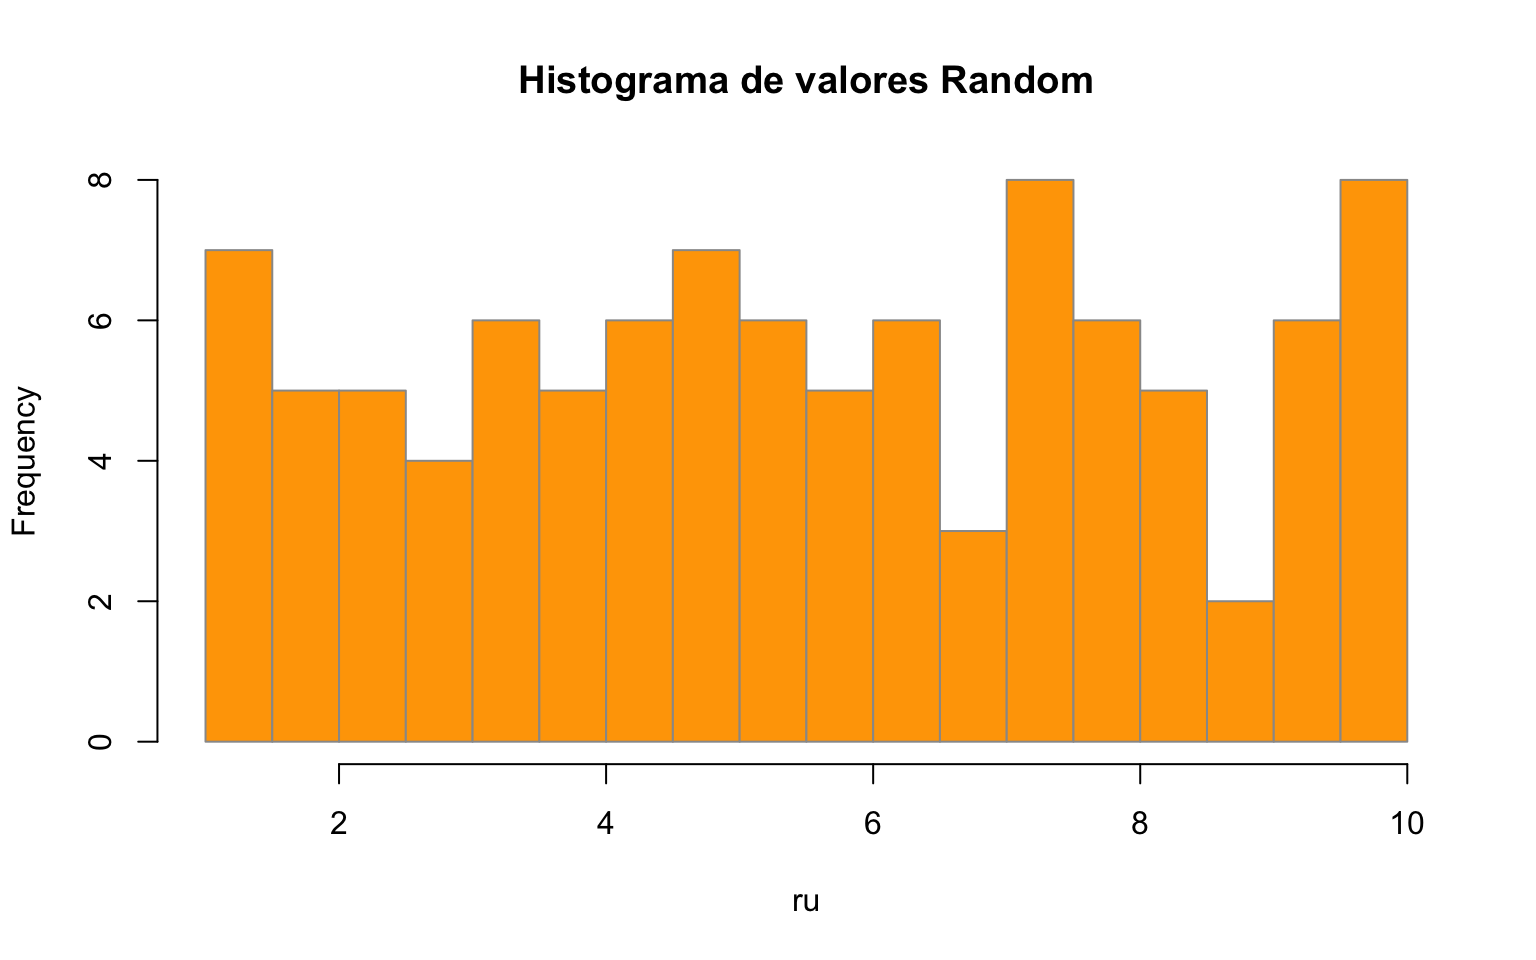
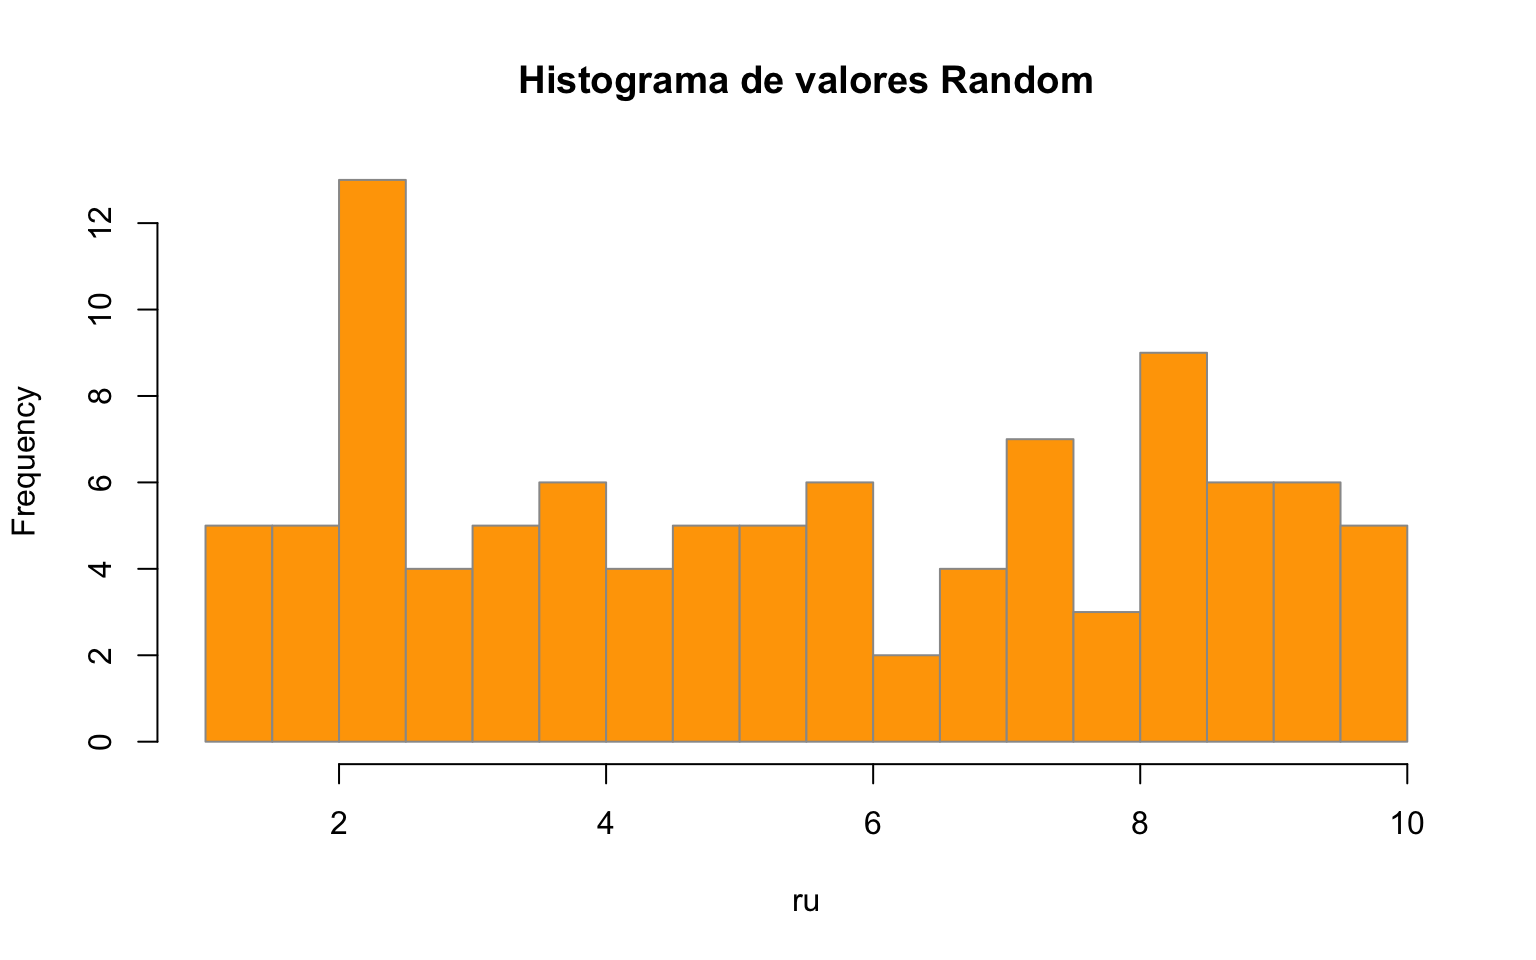
fix duplicated

diff --git a/_book/clean.html b/_book/clean.html
@@ -234,13 +234,12 @@ pre > code.sourceCode > span > a:first-child::before { text-decoration: underlin
   <ul>
   <li><a href="#introducción" id="toc-introducción" class="nav-link active" data-scroll-target="#introducción"><span class="header-section-number">2.1</span> Introducción</a></li>
   <li><a href="#cargar-librerías" id="toc-cargar-librerías" class="nav-link" data-scroll-target="#cargar-librerías"><span class="header-section-number">2.2</span> Cargar Librerías</a></li>
-  <li><a href="#lectura-de-datos" id="toc-lectura-de-datos" class="nav-link" data-scroll-target="#lectura-de-datos"><span class="header-section-number">2.3</span> Lectura de Datos</a></li>
-  <li><a href="#unificar-bases" id="toc-unificar-bases" class="nav-link" data-scroll-target="#unificar-bases"><span class="header-section-number">2.4</span> Unificar Bases</a></li>
-  <li><a href="#selección-de-variables" id="toc-selección-de-variables" class="nav-link" data-scroll-target="#selección-de-variables"><span class="header-section-number">2.5</span> Selección de variables</a></li>
-  <li><a href="#eliminar-duplicados" id="toc-eliminar-duplicados" class="nav-link" data-scroll-target="#eliminar-duplicados"><span class="header-section-number">2.6</span> Eliminar Duplicados</a></li>
-  <li><a href="#imputar-datos-de-zonas-censales-a-los-delitos" id="toc-imputar-datos-de-zonas-censales-a-los-delitos" class="nav-link" data-scroll-target="#imputar-datos-de-zonas-censales-a-los-delitos"><span class="header-section-number">2.7</span> Imputar datos de Zonas Censales a los Delitos</a></li>
-  <li><a href="#categorizar-los-delitos" id="toc-categorizar-los-delitos" class="nav-link" data-scroll-target="#categorizar-los-delitos"><span class="header-section-number">2.8</span> Categorizar los delitos</a></li>
-  <li><a href="#barrios-comerciales" id="toc-barrios-comerciales" class="nav-link" data-scroll-target="#barrios-comerciales"><span class="header-section-number">2.9</span> Barrios Comerciales</a></li>
+  <li><a href="#lectura-y-unificación-de-bases" id="toc-lectura-y-unificación-de-bases" class="nav-link" data-scroll-target="#lectura-y-unificación-de-bases"><span class="header-section-number">2.3</span> Lectura y Unificación de Bases</a></li>
+  <li><a href="#selección-de-variables" id="toc-selección-de-variables" class="nav-link" data-scroll-target="#selección-de-variables"><span class="header-section-number">2.4</span> Selección de variables</a></li>
+  <li><a href="#eliminar-duplicados" id="toc-eliminar-duplicados" class="nav-link" data-scroll-target="#eliminar-duplicados"><span class="header-section-number">2.5</span> Eliminar Duplicados</a></li>
+  <li><a href="#imputar-datos-censales" id="toc-imputar-datos-censales" class="nav-link" data-scroll-target="#imputar-datos-censales"><span class="header-section-number">2.6</span> Imputar datos Censales</a></li>
+  <li><a href="#categorizar-los-delitos" id="toc-categorizar-los-delitos" class="nav-link" data-scroll-target="#categorizar-los-delitos"><span class="header-section-number">2.7</span> Categorizar los delitos</a></li>
+  <li><a href="#barrios-comerciales" id="toc-barrios-comerciales" class="nav-link" data-scroll-target="#barrios-comerciales"><span class="header-section-number">2.8</span> Barrios Comerciales</a></li>
   </ul>
 </nav>
     </div>
@@ -281,9 +280,9 @@ pre > code.sourceCode > span > a:first-child::before { text-decoration: underlin
 <span id="cb1-6"><a href="#cb1-6" aria-hidden="true" tabindex="-1"></a><span class="fu">library</span>(sf)</span></code><button title="Copy to Clipboard" class="code-copy-button"><i class="bi"></i></button></pre></div>
 </div>
 </section>
-<section id="lectura-de-datos" class="level2" data-number="2.3">
-<h2 data-number="2.3" class="anchored" data-anchor-id="lectura-de-datos"><span class="header-section-number">2.3</span> Lectura de Datos</h2>
-<p>Los datos se encuentran en formato RDS separados por y sin ningún tratamiento. Se procederá a revisar el contenido de los datos del año 2017 llamado <code>Casos_2017.rds</code>.</p>
+<section id="lectura-y-unificación-de-bases" class="level2" data-number="2.3">
+<h2 data-number="2.3" class="anchored" data-anchor-id="lectura-y-unificación-de-bases"><span class="header-section-number">2.3</span> Lectura y Unificación de Bases</h2>
+<p>Los datos se encuentran en formato RDS separados por y sin ningún tratamiento. Se procederá a revisar el contenido de los datos del año 2017 llamado <code>Casos_2017.rds</code>, para revisar la estructura de la base.</p>
 <div class="cell">
 <div class="sourceCode cell-code" id="cb2"><pre class="sourceCode r code-with-copy"><code class="sourceCode r"><span id="cb2-1"><a href="#cb2-1" aria-hidden="true" tabindex="-1"></a>datos_2017 <span class="ot">&lt;-</span> <span class="fu">readRDS</span>(<span class="at">file =</span> <span class="st">"data/delitos/raw/Casos_2017.rds"</span>)</span>
 <span id="cb2-2"><a href="#cb2-2" aria-hidden="true" tabindex="-1"></a><span class="fu">head</span>(datos_2017)</span></code><button title="Copy to Clipboard" class="code-copy-button"><i class="bi"></i></button></pre></div>
@@ -292,9 +291,6 @@ pre > code.sourceCode > span > a:first-child::before { text-decoration: underlin
 
 </div>
 <p>Se puede observar que corresponde a <code>1.418.435</code> de casos policiales con información espacial tipo punto (<a href="https://r-spatial.github.io/sf/articles/sf1.html">Simple Features for R</a>), además información temporal y divisiones administrativas.</p>
-</section>
-<section id="unificar-bases" class="level2" data-number="2.4">
-<h2 data-number="2.4" class="anchored" data-anchor-id="unificar-bases"><span class="header-section-number">2.4</span> Unificar Bases</h2>
 <p>Las bases están separadas por año por lo tanto se van unificar para obtener un solo archivo, lo que facilitará hacer todas las transformaciones.</p>
 <p>Primero se listarán todos los archivos que se encuentran en la carpeta</p>
 <div class="cell">
@@ -376,8 +372,8 @@ Lectura Secuencial
 
 </div>
 </section>
-<section id="selección-de-variables" class="level2" data-number="2.5">
-<h2 data-number="2.5" class="anchored" data-anchor-id="selección-de-variables"><span class="header-section-number">2.5</span> Selección de variables</h2>
+<section id="selección-de-variables" class="level2" data-number="2.4">
+<h2 data-number="2.4" class="anchored" data-anchor-id="selección-de-variables"><span class="header-section-number">2.4</span> Selección de variables</h2>
 <p>Una forma sencilla de selección de variables es definir previamente los nombres de columnas que se necesitará y después seleccionar con la función <code>select_at()</code></p>
 <div class="cell">
 <div class="sourceCode cell-code" id="cb8"><pre class="sourceCode r code-with-copy"><code class="sourceCode r"><span id="cb8-1"><a href="#cb8-1" aria-hidden="true" tabindex="-1"></a><span class="co"># selección de variables</span></span>
@@ -392,8 +388,8 @@ Lectura Secuencial
 <span id="cb9-2"><a href="#cb9-2" aria-hidden="true" tabindex="-1"></a>  <span class="fu">select_at</span>(<span class="at">.tbl =</span> ., <span class="at">.vars =</span> cols_names)</span></code><button title="Copy to Clipboard" class="code-copy-button"><i class="bi"></i></button></pre></div>
 </div>
 </section>
-<section id="eliminar-duplicados" class="level2" data-number="2.6">
-<h2 data-number="2.6" class="anchored" data-anchor-id="eliminar-duplicados"><span class="header-section-number">2.6</span> Eliminar Duplicados</h2>
+<section id="eliminar-duplicados" class="level2" data-number="2.5">
+<h2 data-number="2.5" class="anchored" data-anchor-id="eliminar-duplicados"><span class="header-section-number">2.5</span> Eliminar Duplicados</h2>
 <p>Eventualmente es posible que un sistema de adinistración de datos se generen registros duplicados, lo que puede afectar los posteriores análisis entonces es de importancia identificar cuando ocurre y eleminar los duplicados. A continuación se propone una estrategia para esto creando una variable ID compuesta por otras variables donde la probabilidad de que un evento se repita más de una vez sea casi imposble y los más problable que se encuentre en una situación duplicidad de registro.</p>
 <p>Se crea ID por cada registro considerando las variables de <code>hora</code>, <code>fecha</code>, <code>delito_native</code>, <code>lon</code>, <code>lat.</code> Como en nuestro caso la base de delitos en objeto espacial (Simple Features) se extraerá las columnas de latitud y longitud con la función <code>sf2df()</code> alojado en script de funciones generales (<a href="crime_f.html#sec-fnc_df2sf"><span>Section&nbsp;A.1</span></a>).</p>
 <p>Primero creamos una variable temporal de delitos con las columnas de interés:</p>
@@ -432,8 +428,8 @@ Lectura Secuencial
 <!-- mapview(del_reg, zcol = "grupo_delictual") -->
 <!-- ``` -->
 </section>
-<section id="imputar-datos-de-zonas-censales-a-los-delitos" class="level2" data-number="2.7">
-<h2 data-number="2.7" class="anchored" data-anchor-id="imputar-datos-de-zonas-censales-a-los-delitos"><span class="header-section-number">2.7</span> Imputar datos de Zonas Censales a los Delitos</h2>
+<section id="imputar-datos-censales" class="level2" data-number="2.6">
+<h2 data-number="2.6" class="anchored" data-anchor-id="imputar-datos-censales"><span class="header-section-number">2.6</span> Imputar datos Censales</h2>
 <p>A la información correspondiente a casos policiales se le va a imputar información de zonas censales (<a href="https://www.ine.gob.cl">Instituto Nacional de Estadísticas</a>) a través de una operación espacial llamada <code>inteserct</code> entre los polígonos de las zonas censales con los puntos de los casos policiales.</p>
 <p>Lectura de Zonas censales</p>
 <div class="cell">
@@ -457,8 +453,8 @@ Lectura Secuencial
 <div class="sourceCode cell-code" id="cb16"><pre class="sourceCode r code-with-copy"><code class="sourceCode r"><span id="cb16-1"><a href="#cb16-1" aria-hidden="true" tabindex="-1"></a><span class="fu">saveRDS</span>(delitos_info, <span class="st">"data/delitos/delitos_all_info.rds"</span>)</span></code><button title="Copy to Clipboard" class="code-copy-button"><i class="bi"></i></button></pre></div>
 </div>
 </section>
-<section id="categorizar-los-delitos" class="level2" data-number="2.8">
-<h2 data-number="2.8" class="anchored" data-anchor-id="categorizar-los-delitos"><span class="header-section-number">2.8</span> Categorizar los delitos</h2>
+<section id="categorizar-los-delitos" class="level2" data-number="2.7">
+<h2 data-number="2.7" class="anchored" data-anchor-id="categorizar-los-delitos"><span class="header-section-number">2.7</span> Categorizar los delitos</h2>
 <p>Considerando que en los casos policiales tiene una diversa tipificación de delitos se procede a categorizarlos en grupos similares.</p>
 <p>Para facilitar el proceso de clasificación a cada tipo de delito se le asignará una Sigla que se encuentra en una hoja de un archivo excel.</p>
 <div class="cell">
@@ -530,8 +526,8 @@ Lectura Secuencial
 <div class="sourceCode cell-code" id="cb24"><pre class="sourceCode r code-with-copy"><code class="sourceCode r"><span id="cb24-1"><a href="#cb24-1" aria-hidden="true" tabindex="-1"></a><span class="fu">saveRDS</span>(delitos_cat_sigla, <span class="st">"data/delitos/delitos_only_cat.rds"</span>)</span></code><button title="Copy to Clipboard" class="code-copy-button"><i class="bi"></i></button></pre></div>
 </div>
 </section>
-<section id="barrios-comerciales" class="level2" data-number="2.9">
-<h2 data-number="2.9" class="anchored" data-anchor-id="barrios-comerciales"><span class="header-section-number">2.9</span> Barrios Comerciales</h2>
+<section id="barrios-comerciales" class="level2" data-number="2.8">
+<h2 data-number="2.8" class="anchored" data-anchor-id="barrios-comerciales"><span class="header-section-number">2.8</span> Barrios Comerciales</h2>
 <p>Finalmente se procede a filtrar aquellos casos policiales que sean considerados en el proyecto de valuación de barrios comerciales.</p>
 <div class="cell">
 <div class="sourceCode cell-code" id="cb25"><pre class="sourceCode r code-with-copy"><code class="sourceCode r"><span id="cb25-1"><a href="#cb25-1" aria-hidden="true" tabindex="-1"></a>delitos_cat_bc_URB <span class="ot">&lt;-</span> delitos_cat<span class="sc">%&gt;%</span></span>

diff --git a/_book/variables.html b/_book/variables.html
@@ -322,19 +322,19 @@ pre > code.sourceCode > span > a:first-child::before { text-decoration: underlin
 <div class="sourceCode cell-code" id="cb7"><pre class="sourceCode r code-with-copy"><code class="sourceCode r"><span id="cb7-1"><a href="#cb7-1" aria-hidden="true" tabindex="-1"></a>ru <span class="ot">&lt;-</span> <span class="fu">runif</span>(<span class="at">n =</span> <span class="dv">100</span>, <span class="at">min =</span> <span class="dv">1</span>, <span class="at">max =</span> <span class="dv">10</span>)</span>
 <span id="cb7-2"><a href="#cb7-2" aria-hidden="true" tabindex="-1"></a>ru</span></code><button title="Copy to Clipboard" class="code-copy-button"><i class="bi"></i></button></pre></div>
 <div class="cell-output cell-output-stdout">
-<pre><code>  [1] 5.156523 7.650680 4.704767 3.561518 4.789701 9.488680 3.096629 7.925441
-  [9] 6.769876 6.272919 1.403448 4.669358 2.293466 7.133408 1.457101 2.756396
- [17] 1.882091 9.407847 7.328493 1.906862 1.362064 1.426784 9.937670 4.008040
- [25] 9.514224 2.251785 9.826330 9.794149 1.101266 9.852086 7.555293 5.693139
- [33] 3.335468 2.848003 4.210016 6.090781 9.508811 6.939679 9.839526 7.713689
- [41] 8.507738 5.420454 2.669737 8.283646 6.100178 5.688835 4.376911 3.615313
- [49] 3.268916 2.163871 3.833383 3.561293 4.546069 2.016749 2.697584 8.477962
- [57] 4.866331 5.622939 4.697758 6.454732 5.138688 7.068565 7.098963 7.008891
- [65] 4.722336 2.311947 1.930166 7.396395 4.402558 1.704729 7.442723 5.796448
- [73] 5.132455 9.294027 6.452257 5.381967 1.609785 7.534157 9.262385 4.304092
- [81] 8.074148 8.507479 3.218162 9.395648 5.240767 3.847502 1.319088 4.283009
- [89] 5.868356 1.460760 9.347757 9.898239 8.059907 6.574909 7.186965 8.453771
- [97] 3.263488 3.055904 7.876268 6.007772</code></pre>
+<pre><code>  [1] 2.396685 5.470743 9.753440 2.283351 2.889647 5.865922 5.420465 8.729997
+  [9] 1.332864 7.448449 6.988712 3.192441 2.096145 1.188602 6.957907 6.814587
+ [17] 6.033193 7.767496 2.067227 3.840922 8.348103 8.250146 1.596651 2.420141
+ [25] 4.347690 2.880090 2.113710 3.876743 2.342660 4.556248 1.746321 2.950878
+ [33] 5.904560 8.220016 5.896336 3.864045 8.492288 2.327572 5.110178 9.376911
+ [41] 9.378393 8.707929 9.362840 4.884026 3.408966 9.334202 9.818494 8.827952
+ [49] 3.799818 1.580184 2.417263 3.619020 6.787678 1.363698 7.310280 8.418681
+ [57] 2.740334 7.841572 9.884307 8.205222 5.645720 4.444935 2.312019 6.395639
+ [65] 8.786939 4.790528 8.230881 7.978361 9.244791 1.839514 7.389212 1.937700
+ [73] 4.224864 5.590741 5.681861 4.525300 8.841566 9.169740 7.004178 4.263909
+ [81] 5.293656 1.314359 3.127872 8.001988 3.638150 7.186804 7.274961 3.174341
+ [89] 7.386856 9.730761 2.331203 9.747240 8.707599 3.136031 4.810396 8.240717
+ [97] 2.441098 1.277334 5.123647 2.221963</code></pre>
 </div>
 </div>
 <div class="cell" data-layout-align="center">
@@ -353,7 +353,7 @@ pre > code.sourceCode > span > a:first-child::before { text-decoration: underlin
 <div class="cell">
 <div class="sourceCode cell-code" id="cb10"><pre class="sourceCode r code-with-copy"><code class="sourceCode r"><span id="cb10-1"><a href="#cb10-1" aria-hidden="true" tabindex="-1"></a><span class="fu">sample.int</span>(<span class="at">n =</span> <span class="dv">6</span>, <span class="at">size =</span> <span class="dv">10</span>, <span class="at">replace =</span> T)</span></code><button title="Copy to Clipboard" class="code-copy-button"><i class="bi"></i></button></pre></div>
 <div class="cell-output cell-output-stdout">
-<pre><code> [1] 5 6 1 4 3 6 1 3 1 2</code></pre>
+<pre><code> [1] 5 4 4 6 6 5 2 1 4 2</code></pre>
 </div>
 </div>
 </section>

diff --git a/_book/control_r.html b/_book/control_r.html
@@ -409,10 +409,10 @@ pre > code.sourceCode > span > a:first-child::before { text-decoration: underlin
 <span id="cb17-6"><a href="#cb17-6" aria-hidden="true" tabindex="-1"></a>  <span class="fu">print</span>(promedio)</span>
 <span id="cb17-7"><a href="#cb17-7" aria-hidden="true" tabindex="-1"></a>}</span></code><button title="Copy to Clipboard" class="code-copy-button"><i class="bi"></i></button></pre></div>
 <div class="cell-output cell-output-stdout">
-<pre><code>[1] -0.2085306
-[1] -0.3297497
-[1] 0.5396171
-[1] 0.5419889</code></pre>
+<pre><code>[1] -0.007988675
+[1] 0.007400815
+[1] -0.07462651
+[1] -0.1048103</code></pre>
 </div>
 </div>
 </section>
